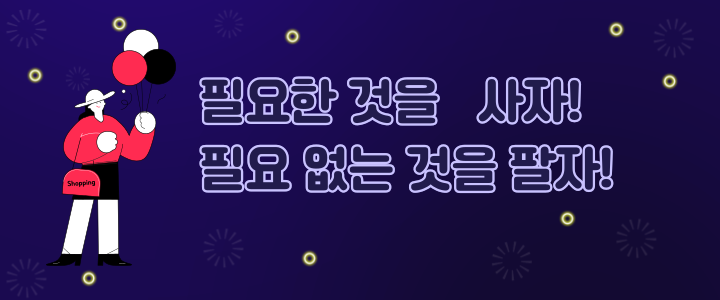
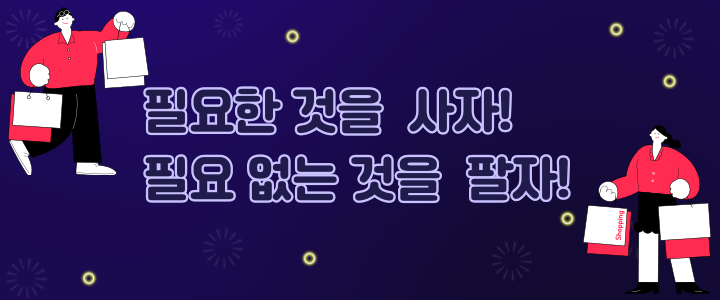
배너수정 및 게시글 목록 제목 길이 수정

Changed region(s): [[0.0, 0.03, 1.0, 0.99]]

diff --git a/freeboard_frontend/src/components/commons/layout/banner/Banner.presenter.tsx b/freeboard_frontend/src/components/commons/layout/banner/Banner.presenter.tsx
@@ -6,7 +6,7 @@ export default function BannerUI() {
     <Carousel fade>
       <Carousel.Item>
         <img
-          style={{ height: "400px" }}
+          style={{ height: "450px" }}
           className="d-block w-100"
           src="img/banner01.png"
           alt="First slide"
@@ -14,10 +14,18 @@ export default function BannerUI() {
       </Carousel.Item>
       <Carousel.Item>
         <img
-          style={{ height: "400px" }}
+          style={{ height: "450px" }}
           className="d-block w-100"
           src="img/banner02.png"
           alt="Second slide"
+        />
+      </Carousel.Item>
+      <Carousel.Item>
+        <img
+          style={{ height: "450px" }}
+          className="d-block w-100"
+          src="img/banner03.png"
+          alt="Third slide"
         />
       </Carousel.Item>
     </Carousel>

diff --git a/freeboard_frontend/src/components/commons/layout/navigation/Navigation.styles.ts b/freeboard_frontend/src/components/commons/layout/navigation/Navigation.styles.ts
@@ -2,7 +2,7 @@ import styled from "@emotion/styled";
 
 export const Wrapper = styled.div`
   height: 64px;
-  background-color: #5729ff;
+  background-color: #ffd342;
   display: flex;
   flex-direction: row;
   justify-content: center;

diff --git a/freeboard_frontend/src/components/units/board/list/BoardList.styles.ts b/freeboard_frontend/src/components/units/board/list/BoardList.styles.ts
@@ -49,6 +49,9 @@ export const ColumnTitle = styled.div`
   width: 70%;
   text-align: center;
   cursor: pointer;
+  white-space: nowrap;
+  text-overflow: ellipsis;
+  overflow: hidden;
 
   :hover {
     color: blue;
